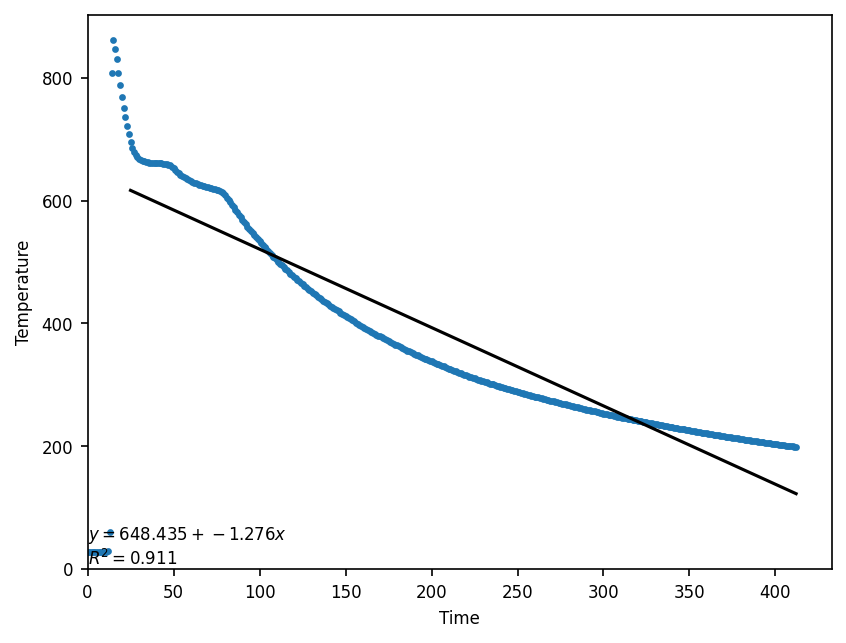
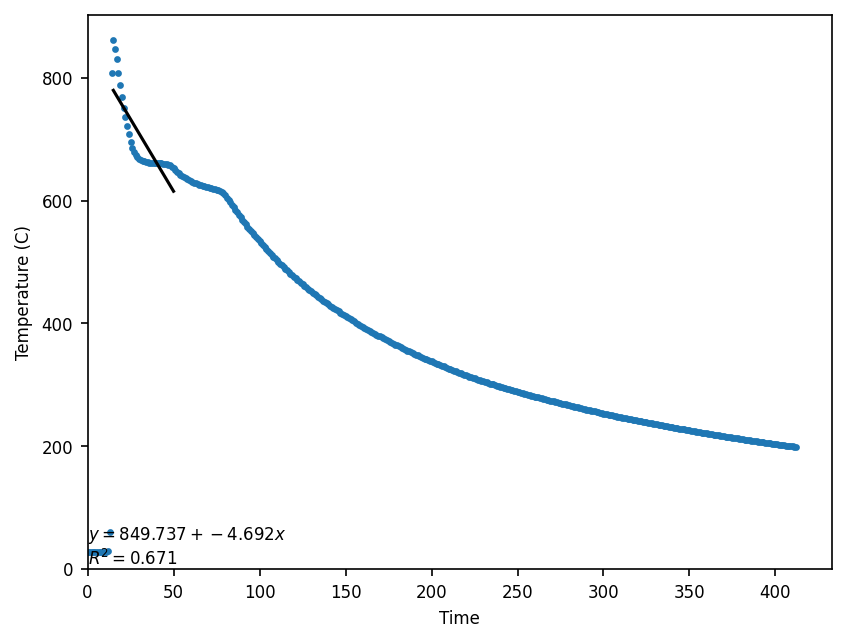
Edited file locations and created graphs.

diff --git a/exp1-casting/exp1-casting.py b/exp1-casting/exp1-casting.py
@@ -36,14 +36,14 @@ freq_steel = 5 # Hz
 
 # CREATE VARIABLES FOR LINEAR FIT RANGE
 # TODO: change values
-range_ceramic = [25, -1]
-range_graphite = [25, -1]
-range_steel = [25, -1]
+range_ceramic = [15, 50]
+range_graphite = [10, 16]
+range_steel = [10, 16]
 
 # COLUMNS
 # TODO: add axis titles
 x_axis = "Time"
-y_axis = "Temperature"
+y_axis = "Temperature (C)"
 
 
 def load_data(filepath, x, y, freq=1, header_line=0, view_data=False):
